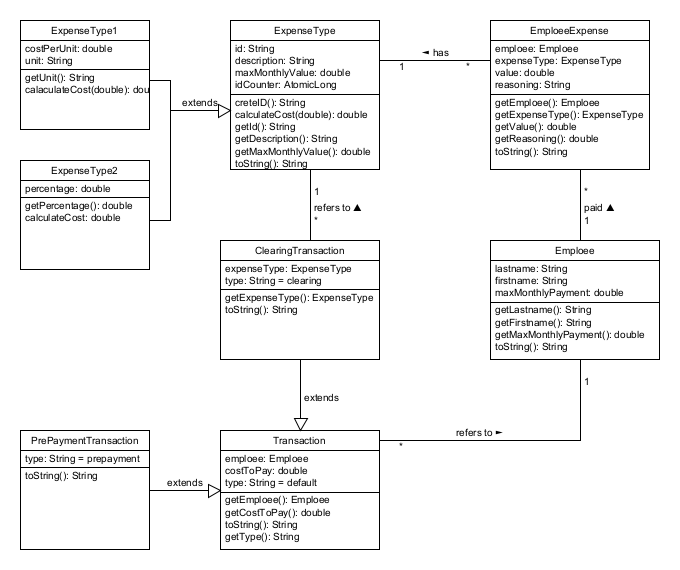
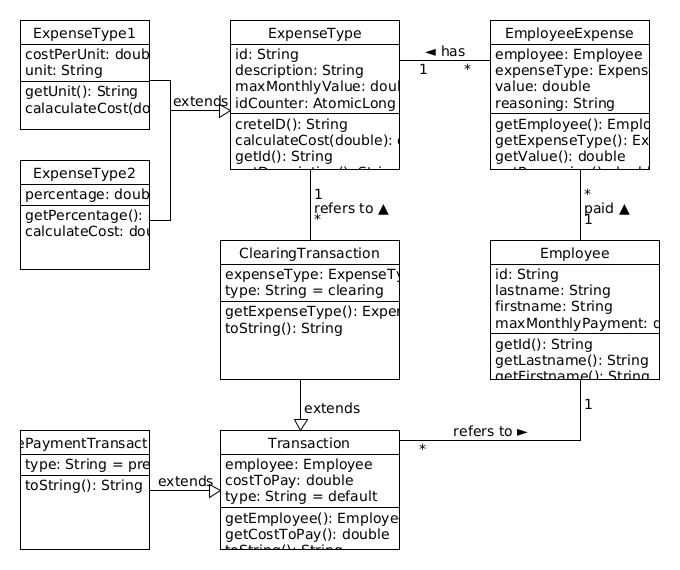
fix: loading - exporting procedure
- Create loadExpenseTypes
- Create exportExpenses
- Create exportTransactions
- Update classDiagram
!- Should add in classDiagram LoadExport class, transaction.getExpenseType, ClearingTransaction.getExpenseType
!- Check employee and expense types for possible missing structures from class diagram

diff --git a/project2/src/LoadExport.java b/project2/src/LoadExport.java
@@ -2,8 +2,8 @@ import java.io.*;
 import java.util.*;
 
 public class LoadExport{
-    private String[] TAGS = {"EXPENSE_TYPE_LIST", "EXPENSE_TYPE", "TYPE", "CODE", "DESCR", "EMPLOYEE_LIST", "EMPLOYEE", "SURNAME", "FIRST_NAME", "MAX_MONTHLY_VAL",
-                             "EXPENSE_LIST", "EXPENSE", "EMPLOEE_CODE", "EXPENSE_CODE", "VAL", "TRN_LIST", "TRN", }
+    private static String[] TAGS = {"EXPENSE_TYPE_LIST", "EXPENSE_TYPE", "TYPE", "CODE", "DESCR", "EMPLOYEE_LIST", "EMPLOYEE", "SURNAME", "FIRST_NAME", "MAX_MONTHLY_VAL",
+                             "EXPENSE_LIST", "EXPENSE", "EMPLOYEE_CODE", "EXPENSE_CODE", "VAL", "TRN_LIST", "TRN", "COST_PER_UNIT", "UNIT", "PERCENTAGE"};
     private LoadExport(){
 
     }
@@ -55,7 +55,7 @@ public class LoadExport{
         BufferedReader br = null;
         FileReader fr = null;
         ArrayList<ExpenseType> et = new ArrayList<>();
-        String sCurrentLine, type = null, code = null , descr = null;
+        String checkpoint = null, sCurrentLine, type = null, code = null , descr = null;
         boolean hasType = false, hasCode = false, hasDescr = false;
         double maxMonValue = 0.0;
 
@@ -94,16 +94,46 @@ public class LoadExport{
                                     br.mark(10000);
 
                                     while (!sCurrentLine.equals("}") && sCurrentLine != null) {
-                                        sCurrentLine = br.readLine();
+                                        checkpoint = sCurrentLine = br.readLine();
                                         if (sCurrentLine.matches("(?i)\\s*code\\s*(\\S+\\s*)*")) {
                                             hasCode = true;
+                                            code = sCurrentLine.trim().substring("CODE".length()).trim();
                                         } else if (sCurrentLine.matches("(?i)\\s*descr\\s*(\\S+\\s*)*")) {
                                             hasDescr = true;
+                                            descr = sCurrentLine.trim().substring("EXPENSE_TYPE_DESCR".length()).trim();
                                         } else if (sCurrentLine.matches("(?i)\\s*type\\s*\\S+\\s*")) {
                                             hasType = true;
                                             type = sCurrentLine.trim().substring(5).trim();
                                         }
                                     }
+                                }
+                                if (hasCode && hasDescr && hasType){
+                                    br.reset();
+                                    sCurrentLine = br.readLine();
+                                    if(type.trim().equalsIgnoreCase("1")){
+                                        double costPerUnit = 0;
+                                        String unit = null;
+                                        while(!sCurrentLine.trim().equals("}")) {
+                                            if (sCurrentLine.matches("(?i)\\s*cost_per_unit\\s*(\\S+\\s*)*")) {
+                                                costPerUnit = Double.parseDouble(sCurrentLine.trim().substring("cost_per_unit".length()).trim());
+                                            }
+                                            else if (sCurrentLine.matches("(?i)\\s*unit\\s*(\\S+\\s*)*")) {
+                                                unit = sCurrentLine.trim().substring("UNIT".length());
+                                            }
+                                            sCurrentLine = br.readLine();
+                                        }
+                                        et.add(new ExpenseType1(code, descr, maxMonValue, costPerUnit, unit));
+                                    }
+                                    else if(type.trim().equalsIgnoreCase("2")){
+                                        double percentage = 0.0;
+                                        if (sCurrentLine.matches("(?i)\\s*percentage\\s*(\\S+\\s*)*")) {
+                                            percentage = Double.parseDouble(sCurrentLine.trim().substring("PERCENTAGE".length()).trim());
+                                        }
+                                        et.add(new ExpenseType2(code, descr, maxMonValue, percentage));
+                                    }
+                                }
+                                else{
+                                    System.out.println("File in line: ' " + checkpoint + " ' was skipped during loading due to insufficient data...");
                                 }
                             }
                         }
@@ -112,23 +142,68 @@ public class LoadExport{
             }
         }
         catch(Exception e){
-
+            System.out.println("!!!ERROR DURING EXPENSE_TYPES LOADING!!!");
+            et = null;
         }
         return et;
     }
 
     private static ArrayList<Employee> loadEmployees(String empListPath) {
+        return null;
     }
 
     private static HashMap<Employee,EmployeeExpense> loadEmpExpenses(String empExpPath) {
+        return null;
     }
 
     private static HashMap<Employee,Transaction> loadEmpTransactions(String empTrnPath) {
+        return null;
     }
 
     private static void ExportExpenses(HashMap<Employee,EmployeeExpense> e, String exp) {
+        File file = new File (exp);
+        PrintWriter printWriter;
+        try {
+            printWriter = new PrintWriter (file);
+            printWriter.println (TAGS[10]);
+            printWriter.println ("{");
+            for (Employee emp: e.keySet()){
+                printWriter.println ("    " + TAGS[11]);
+                printWriter.println ("    " +  "{");
+                printWriter.println ("    " + "    " + TAGS[12] + "   " + emp.getId());
+                printWriter.println ("    " + "    " + TAGS[13] + "   " + e.get(emp).getExpenseType().getType());
+                printWriter.println ("    " + "    " + TAGS[14] + "   " + e.get(emp).getValue());
+                printWriter.println ("    " + "}");
+            }
+            printWriter.println ("}");
+            System.out.println("Export completed! File: " + file.getAbsolutePath());
+        } catch (FileNotFoundException fileNotFoundException) {
+            fileNotFoundException.printStackTrace();
+        }
     }
 
     private static void ExportTransactions(HashMap<Employee,Transaction> t, String trn) {
+        File file = new File (trn);
+        PrintWriter printWriter;
+        try {
+            printWriter = new PrintWriter (file);
+            printWriter.println (TAGS[15]);
+            printWriter.println ("{");
+            for (Employee emp: t.keySet()){
+                printWriter.println ("    " + TAGS[15]);
+                printWriter.println ("    " +  "{");
+                printWriter.println ("    " + "    " + TAGS[12] + "   " + emp.getId());
+                printWriter.println ("    " + "    " + TAGS[2] + "   " + t.get(emp).getType());
+                printWriter.println ("    " + "    " + TAGS[14] + "   " + t.get(emp).getCostToPay());
+                if(t.get(emp).getExpenseType() != null){
+                    printWriter.println ("    " + "    " + TAGS[1] + "   " + t.get(emp).getExpenseType());
+                }
+                printWriter.println ("    " + "}");
+            }
+            printWriter.println ("}");
+            System.out.println("Export completed! File: " + file.getAbsolutePath());
+        } catch (FileNotFoundException fileNotFoundException) {
+            fileNotFoundException.printStackTrace();
+        }
     }
 }

diff --git a/project2/src/ExpenseType2.java b/project2/src/ExpenseType2.java
@@ -1,8 +1,14 @@
 public class ExpenseType2 extends ExpenseType{
     private final double percentage;
+    private final String type = "2";
 
     ExpenseType2(String description, double maxMonthlyValue, double percentage){
         super(description, maxMonthlyValue);
+        this.percentage = percentage;
+    }
+
+    ExpenseType2(String code, String description, double maxMonthlyValue, double percentage){
+        super(code, description, maxMonthlyValue);
         this.percentage = percentage;
     }
 
@@ -13,5 +19,10 @@ public class ExpenseType2 extends ExpenseType{
     @Override
     public double calculateCost(double value){
         return percentage*value;
+    }
+
+    @Override
+    public String getType(){
+        return "2";
     }
 }

diff --git a/project2/src/Employee.java b/project2/src/Employee.java
@@ -1,6 +1,7 @@
 import java.util.ArrayList;
 
 public class Employee {
+    private String id;
     private final String lastname;
     private final String firstname;
     private final double maxMonthlyPayment;
@@ -9,6 +10,17 @@ public class Employee {
         this.lastname = lastname;
         this.firstname = firstname;
         this.maxMonthlyPayment = maxMonthlyPayment;
+    }
+
+    Employee(String id, String lastname, String firstname, double maxMonthlyPayment){
+        this.id = id;
+        this.lastname = lastname;
+        this.firstname = firstname;
+        this.maxMonthlyPayment = maxMonthlyPayment;
+    }
+
+    public String getId(){
+        return id;
     }
 
     public String getLastname() {

diff --git a/project2/src/ExpenseType1.java b/project2/src/ExpenseType1.java
@@ -9,6 +9,12 @@ public class ExpenseType1 extends ExpenseType{
         this.unit = unit;
     }
 
+    ExpenseType1(String code, String description, double maxMonthlyValue, double costPerUnit, String unit){
+        super(code, description, maxMonthlyValue);
+        this.costPerUnit = costPerUnit;
+        this.unit = unit;
+    }
+
     public String getUnit() {
         return unit;
     }
@@ -16,5 +22,10 @@ public class ExpenseType1 extends ExpenseType{
     @Override
     public double calculateCost(double value){
         return costPerUnit*value;
+    }
+
+    @Override
+    public String getType(){
+        return "1";
     }
 }

diff --git a/project2/src/ExpenseType.java b/project2/src/ExpenseType.java
@@ -18,6 +18,12 @@ public class ExpenseType {
         this.maxMonthlyValue = maxMonthlyValue;
     }
 
+    ExpenseType(String code, String descr, double maxMonthlyValue){
+        this.id = code;
+        this.description = descr;
+        this.maxMonthlyValue = maxMonthlyValue;
+    }
+
     public String getId() {
         return id;
     }
@@ -32,6 +38,10 @@ public class ExpenseType {
 
     public double calculateCost(double value){
         return -1;      // it will be overridden; -1 indicates that an error has occurred
+    }
+
+    public String getType(){
+        return "0";
     }
 
     @Override

diff --git a/project2/src/ClearingTransaction.java b/project2/src/ClearingTransaction.java
@@ -7,6 +7,7 @@ public class ClearingTransaction extends Transaction{
         this.expenseType = expenseType;
     }
 
+    @Override
     public ExpenseType getExpenseType() {
         return expenseType;
     }

diff --git a/project2/src/Transaction.java b/project2/src/Transaction.java
@@ -24,4 +24,8 @@ public class Transaction {
     public String getType(){
         return type;
     }
+
+    public ExpenseType getExpenseType() {
+        return null;
+    }
 }

diff --git a/project2/LoadAndExportUtil.java b/project2/LoadAndExportUtil.java
@@ -1,4 +1,3 @@
-
 import java.io.BufferedReader;
 import java.io.File;
 import java.io.FileNotFoundException;
